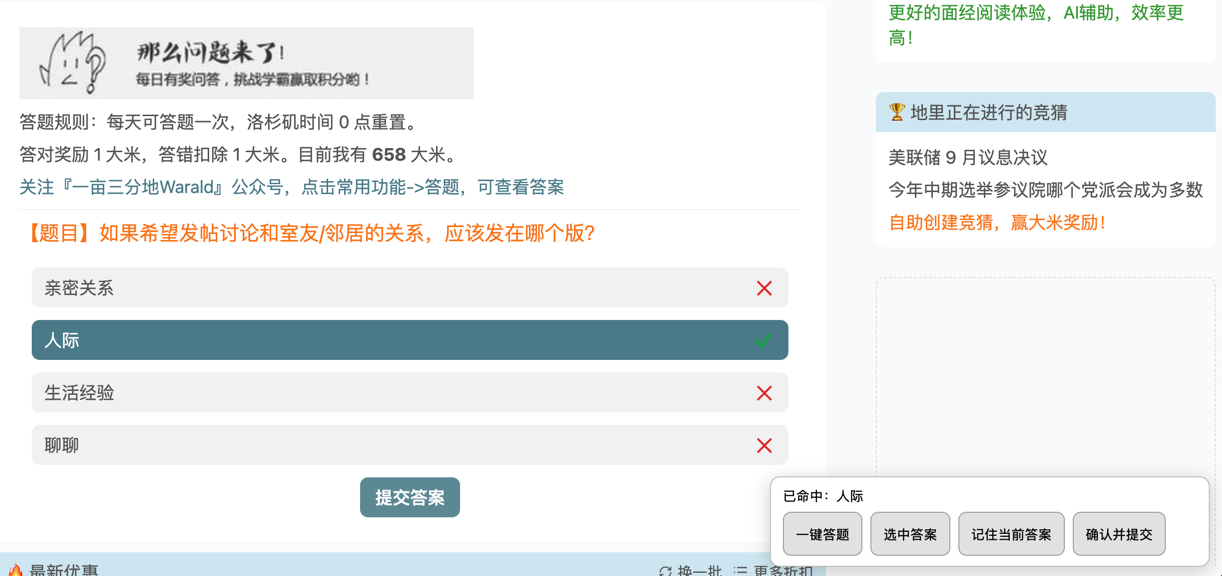
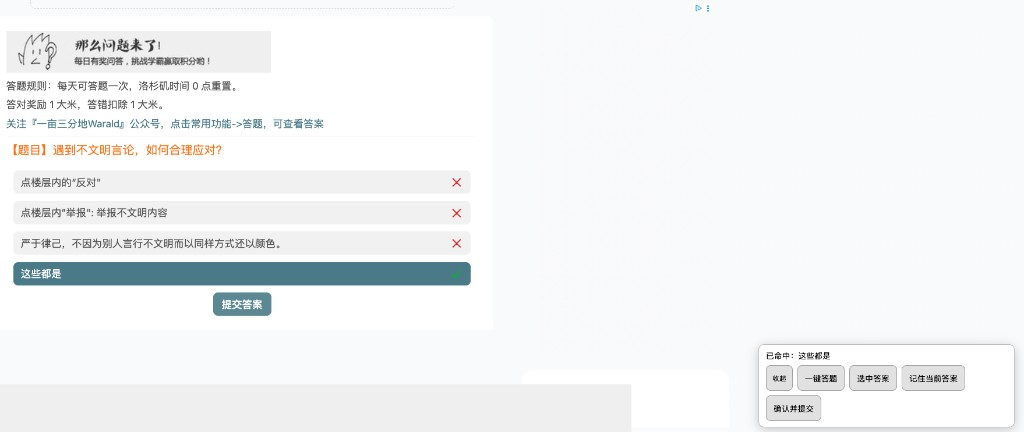
update readme

diff --git a/README.md b/README.md
@@ -1,6 +1,6 @@
 # 一亩三分地每日助手
 
-这是一个 Manifest V3 Chrome 扩展，为一亩三分地的 `/next/daily-question` 和 `/next/daily-checkin` 页面提供本地学习、人工确认和一键自动流程辅助。它不替用户绕过站点流程。
+当前版本 **v0.2.0**。这是一个 Manifest V3 Chrome 扩展，为一亩三分地的 `/next/daily-question` 和 `/next/daily-checkin` 页面提供本地学习、人工确认和一键自动流程辅助。它不替用户绕过站点流程。
 
 ## 安装
 
@@ -23,23 +23,23 @@
 
 ## 界面示例
 
-1. 答题
+1. 扩展弹窗
+
+   ![扩展弹窗截图](docs/screenshots/popup.png)
+
+   v0.2.0 弹窗：主按钮【一键签到 & 答题】自动完成今日任务，也可【单独签到】或【单独答题】，并查看今日进度。
+
+2. 答题
 
    ![答题界面截图](docs/screenshots/answer.png)
 
-   题目页面的答题辅助界面。
+   每日答题页右下角工具栏。唯一命中时会勾叉高亮正确答案，并显示「已命中」状态。
 
-2. 签到
+3. 签到
 
    ![签到界面截图](docs/screenshots/checkin.png)
 
-   签到页面的辅助操作界面。
-
-3. 一键答题签到
-
-   ![一键答题签到界面截图](docs/screenshots/everything.png)
-
-   一键串联签到和答题的流程界面。
+   每日签到页的辅助操作界面，默认选择「没心情」后可确认签到。
 
 ## 使用流程
 
